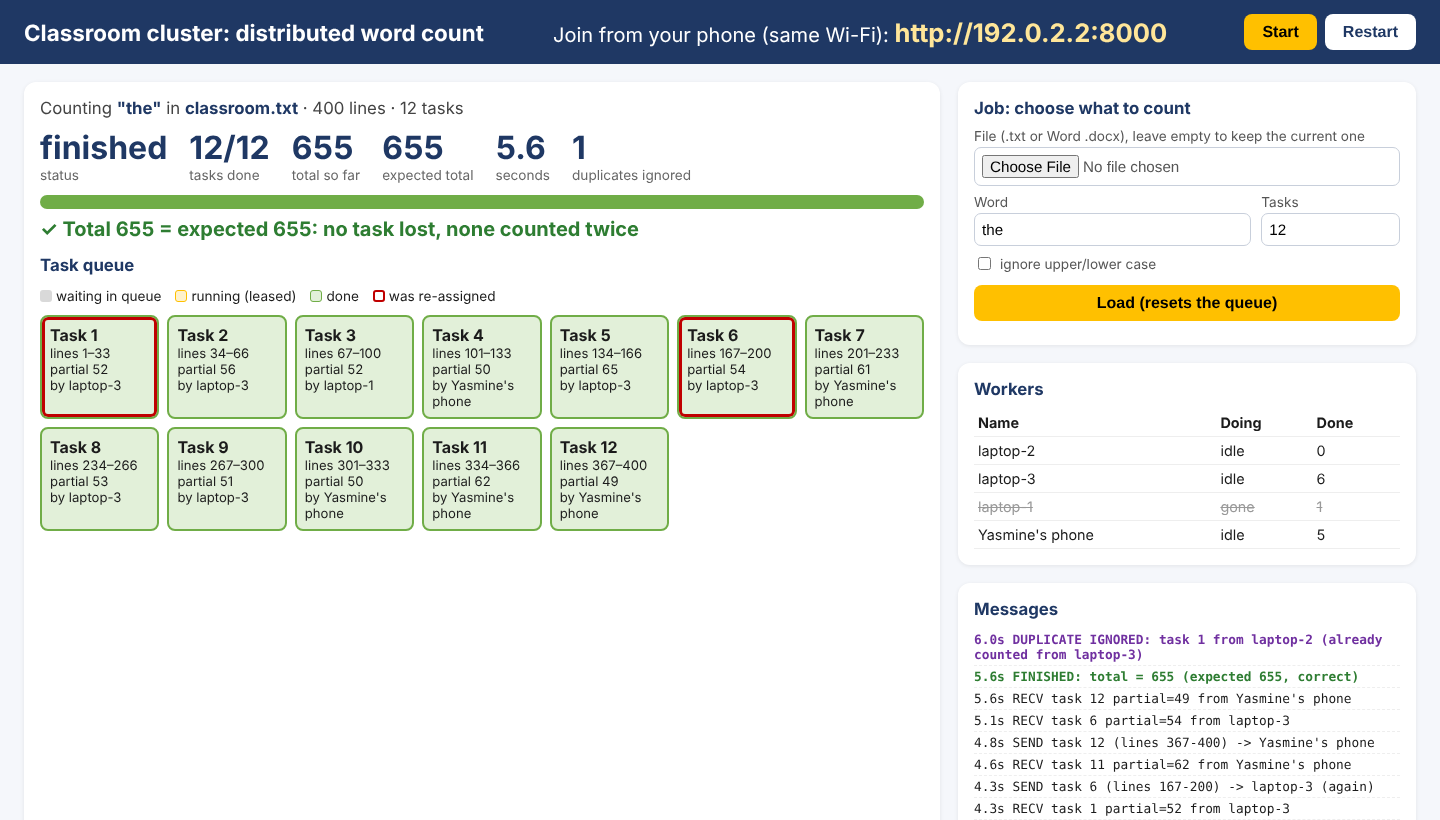
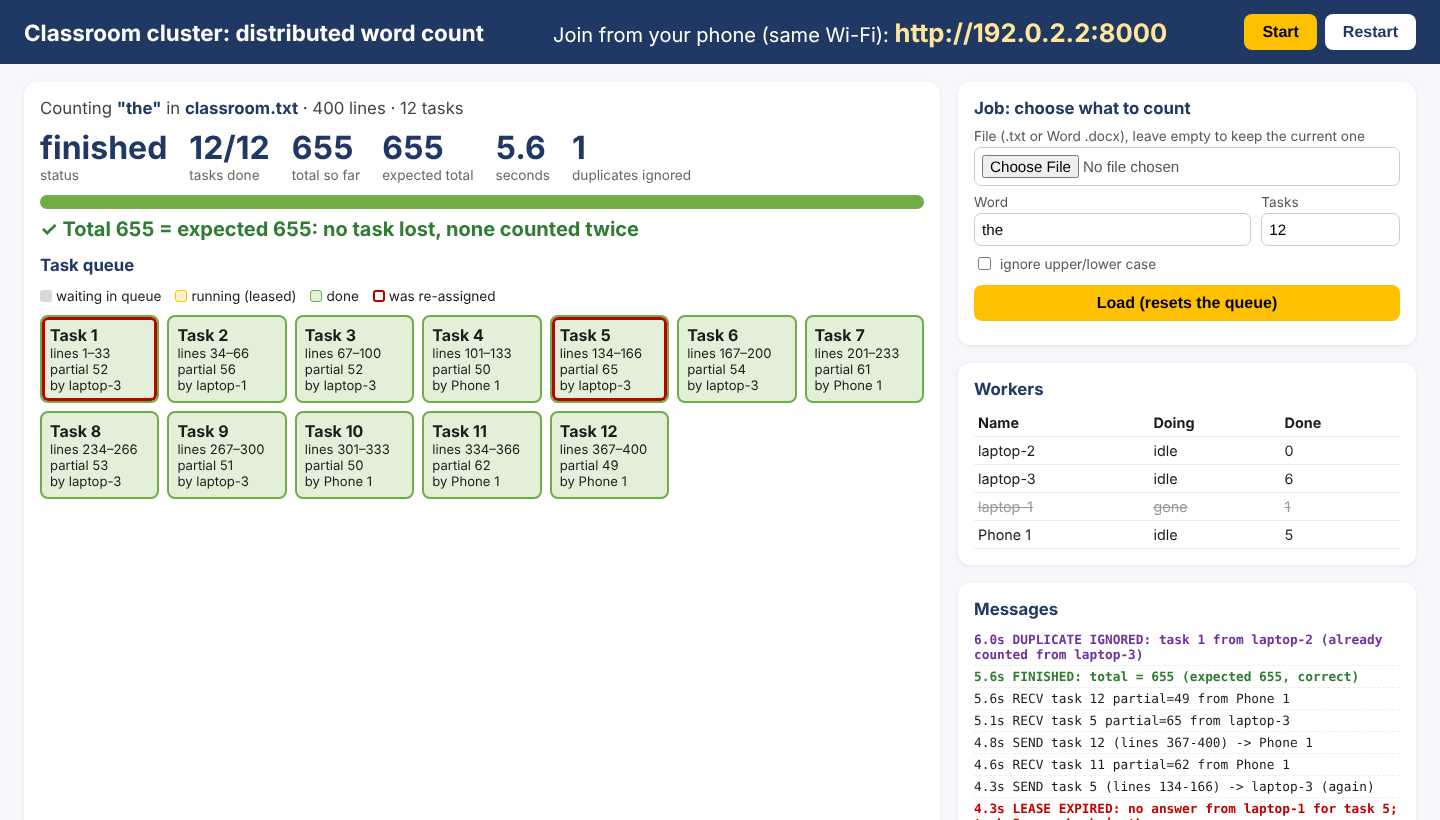
Fix no-GIL commands, generic phone name, final cleanup

diff --git a/src/wordcount/cluster_pages.py b/src/wordcount/cluster_pages.py
@@ -21,7 +21,7 @@ WORKER_HTML = r"""<!doctype html>
 <h1>Word-count cluster</h1><p class="sub">Your device becomes one worker of a distributed program.</p>
 <section id="joinBox" class="card">
  <label for="name" class="muted">Your name (shown on the projector)</label>
- <input id="name" maxlength="24" placeholder="e.g. Yasmine's phone">
+ <input id="name" maxlength="24" placeholder="e.g. Phone 1">
  <button id="join">Join as a worker</button>
 </section>
 <section id="workBox" class="card hidden">

diff --git a/tests/test_core.py b/tests/test_core.py
@@ -3,7 +3,7 @@ import re
 
 import pytest
 
-from wordcount.core import (count_lines, count_processes, count_threaded,
+from wordcount.core import (count_processes, count_threaded,
                             partition_lines, read_lines)
 from wordcount.race import run_race
 

diff --git a/README.md b/README.md
@@ -134,28 +134,32 @@ These extend the required demo. None of them change the original counter.
 
 Python 3.13 ships an official experimental free-threaded build (`3.13t`) with no GIL. We run the unchanged `count_threaded` on both builds.
 
+**How the no-GIL commands work.** The project's chart library (matplotlib, with NumPy and Pillow) has no ready-made packages for free-threaded Python 3.13, so `uv run --python 3.13t wordcount-...` fails while trying to build them. The bonus experiments do not need those libraries (only the plotting step does, and that runs on normal Python). So the no-GIL commands run our code directly: `--no-project` skips installing the project's packages, and `PYTHONPATH=src` lets Python find our code. Run these once per PowerShell window before the no-GIL commands:
+
 ```powershell
 uv python install 3.13t
-uv run wordcount-generate --file data/large.txt --mib 50
-uv run wordcount-gil run --file data/large.txt --workers 1 2 4 8 --repeats 5 --output results/bonus/gil-on.csv
-uv run --python 3.13t wordcount-gil run --file data/large.txt --workers 1 2 4 8 --repeats 5 --output results/bonus/gil-off.csv
-uv run wordcount-gil plot results/bonus/gil-on.csv results/bonus/gil-off.csv --output results/bonus/gil.png
+$env:PYTHONPATH = "src"
 ```
 
-If matplotlib cannot install under 3.13t, add `--no-project` and set `PYTHONPATH=src` for the 3.13t run; plotting is always done with the normal interpreter.
+```powershell
+uv run wordcount-generate --file data/large.txt --mib 50
+uv run wordcount-gil run --file data/large.txt --workers 1 2 4 8 --repeats 5 --output results/bonus/gil-on.csv
+uv run --no-project --python 3.13t python -m wordcount.gil run --file data/large.txt --workers 1 2 4 8 --repeats 5 --output results/bonus/gil-off.csv
+uv run wordcount-gil plot results/bonus/gil-on.csv results/bonus/gil-off.csv --output results/bonus/gil.png
+```
 
 ### 2. A natural race condition (no barriers, no sleeps)
 
 ```powershell
-uv run wordcount-natural-race                  # GIL on: usually 0 lost
-uv run --python 3.13t wordcount-natural-race   # GIL off: hundreds of thousands lost
+uv run wordcount-natural-race                                            # GIL on: usually 0 lost
+uv run --no-project --python 3.13t python -m wordcount.natural_race      # GIL off: hundreds of thousands lost
 ```
 
 ### 3. Thread timeline (who is really running)
 
 ```powershell
 uv run wordcount-timeline --file data/large.txt --threads 2 --output results/bonus/timeline-gil-on.json
-uv run --python 3.13t wordcount-timeline --file data/large.txt --threads 2 --output results/bonus/timeline-gil-off.json
+uv run --no-project --python 3.13t python -m wordcount.timeline --file data/large.txt --threads 2 --output results/bonus/timeline-gil-off.json
 uv run wordcount-timeline --plot results/bonus/timeline-gil-on.json results/bonus/timeline-gil-off.json --output results/bonus/timeline.png
 ```
 
